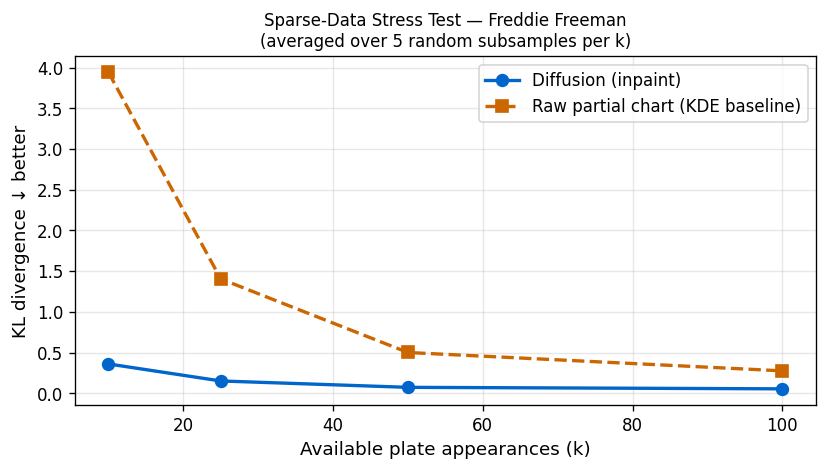
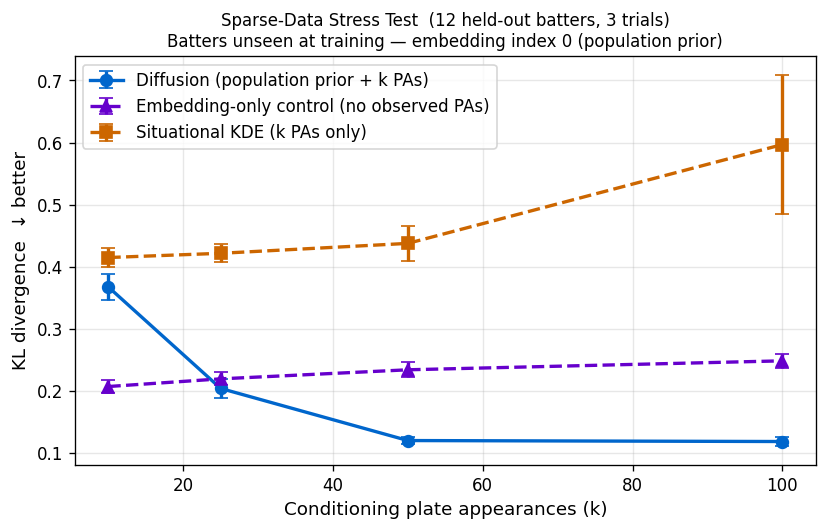
Fix reviewer issues: reproducibility, eval distribution mismatch, guidance consistency
- preprocess.py: add HELD_OUT_BATTERS frozenset, rewrite build_batter_id_map()
  with proper index-0 reservation, add _make_per_batter_split() for reproducible
  per-batter splits (no batter in more than one split)
- dataset.py: fix Path 2 partial synthesis to match coords_to_image() —
  apply gaussian_filter + FAIR_MASK + normalize; add batter CFG dropout (10%)
- evaluate.py: add guidance_scale to all inpaint_sample calls (embedding-only
  control and gallery were missing it); fix Task 4 label; default config →
  configs/default.yaml (was fast.yaml, which lacks held_out_batters key)
- README: rewrite to match actual pipeline (2023 data, per-batter split,
  held-out batters, correct script names, accurate architecture description)

diff --git a/src/data/preprocess.py b/src/data/preprocess.py
@@ -142,6 +142,15 @@ def assign_split(year: int) -> str:
     return "test"
 
 
+# Held-out batters: selected by seed=42 from batters with >=200 PA in 2023.
+# These are EXCLUDED from all training data and map to embedding index 0.
+HELD_OUT_BATTERS: frozenset[int] = frozenset([
+    519058, 519317, 592273, 642715, 643217,
+    657077, 664702, 666134, 668942, 672515,
+    686668, 686681,
+])
+
+
 def build_full_season_charts(
     df: pd.DataFrame,
     out_dir: Path,
@@ -217,13 +226,51 @@ def build_situational_charts(
     return records
 
 
-def build_batter_id_map(df: pd.DataFrame, out_dir: Path) -> dict[int, int]:
-    mlbam_ids = sorted(df["batter"].dropna().unique().astype(int).tolist())
-    id_map = {mlbam: idx for idx, mlbam in enumerate(mlbam_ids)}
+def build_batter_id_map(
+    df: pd.DataFrame,
+    out_dir: Path,
+    held_out: frozenset[int] = HELD_OUT_BATTERS,
+) -> dict[int, int]:
+    """
+    Build the batter → embedding-index map.
+
+    Index 0 is reserved as the population-prior / unknown-batter vector.
+    Training batters are assigned indices 1..N in sorted MLBAM order.
+    Held-out batters are present in the JSON but map to index 0 so that
+    inference code can look them up without crashing.
+    """
+    all_ids = sorted(df["batter"].dropna().unique().astype(int).tolist())
+    train_ids = [m for m in all_ids if m not in held_out]
+
+    id_map: dict[int, int] = {}
+    for idx, mlbam in enumerate(train_ids, start=1):   # 1-indexed; 0 = unknown
+        id_map[mlbam] = idx
+    for mlbam in held_out:
+        id_map[mlbam] = 0
+
     with open(out_dir / "batter_id_map.json", "w") as f:
         json.dump({str(k): v for k, v in id_map.items()}, f, indent=2)
-    print(f"Saved batter_id_map.json with {len(id_map)} batters")
+    print(f"Saved batter_id_map.json: {len(train_ids)} training batters "
+          f"(indices 1-{len(train_ids)}), {len(held_out)} held-out (index 0)")
     return id_map
+
+
+def _make_per_batter_split(
+    unique_batters: list[int],
+    seed: int = 42,
+    val_frac: float = 0.10,
+    test_frac: float = 0.10,
+) -> dict[int, str]:
+    """Assign each batter to train / val / test (all-or-nothing per batter)."""
+    rng = np.random.default_rng(seed)
+    n = len(unique_batters)
+    perm = rng.permutation(n)
+    n_val  = max(1, int(n * val_frac))
+    n_test = max(1, int(n * test_frac))
+    val_set  = {unique_batters[i] for i in perm[:n_val]}
+    test_set = {unique_batters[i] for i in perm[n_val:n_val + n_test]}
+    return {b: ("test" if b in test_set else "val" if b in val_set else "train")
+            for b in unique_batters}
 
 
 def preprocess(
@@ -231,6 +278,8 @@ def preprocess(
     processed_dir: Path,
     min_pa_full: int = 100,
     min_pa_sit: int = 30,
+    held_out: frozenset[int] = HELD_OUT_BATTERS,
+    split_seed: int = 42,
 ) -> None:
     df = load_raw(raw_dir)
 
@@ -239,16 +288,28 @@ def preprocess(
     df = df[df["events"] != "foul"]
     print(f"After filtering: {len(df):,} batted balls")
 
-    build_batter_id_map(df, processed_dir)
+    # Remove held-out batters from the training dataframe entirely
+    df_train = df[~df["batter"].isin(held_out)].copy()
+    print(f"After removing {len(held_out)} held-out batters: {len(df_train):,} events")
 
+    build_batter_id_map(df, processed_dir, held_out=held_out)
+
+    # Build charts from training batters only
     records: list[dict] = []
-    records += build_full_season_charts(df, processed_dir, min_pa=min_pa_full)
-    records += build_situational_charts(df, processed_dir, min_pa=min_pa_sit)
+    records += build_full_season_charts(df_train, processed_dir, min_pa=min_pa_full)
+    records += build_situational_charts(df_train, processed_dir, min_pa=min_pa_sit)
 
+    # Assign per-batter split (no batter appears in more than one split)
     meta = pd.DataFrame(records)
+    unique_batters = sorted(meta["batter_id"].unique().tolist())
+    batter_split = _make_per_batter_split(unique_batters, seed=split_seed)
+    meta["split"] = meta["batter_id"].map(batter_split)
+
     meta.to_csv(processed_dir / "metadata.csv", index=False)
     print(f"\nMetadata saved: {len(meta)} total charts")
     print(meta["split"].value_counts().to_string())
+    assert meta.groupby("batter_id")["split"].nunique().max() == 1, \
+        "BUG: a batter appears in more than one split"
 
 
 def main() -> None:
@@ -257,8 +318,11 @@ def main() -> None:
     parser.add_argument("--processed-dir", type=Path, default=Path("data/processed"))
     parser.add_argument("--min-pa-full", type=int, default=100)
     parser.add_argument("--min-pa-sit", type=int, default=30)
+    parser.add_argument("--split-seed", type=int, default=42)
     args = parser.parse_args()
-    preprocess(args.raw_dir, args.processed_dir, args.min_pa_full, args.min_pa_sit)
+    preprocess(args.raw_dir, args.processed_dir,
+               args.min_pa_full, args.min_pa_sit,
+               split_seed=args.split_seed)
 
 
 if __name__ == "__main__":

diff --git a/scripts/evaluate.py b/scripts/evaluate.py
@@ -33,7 +33,7 @@ sys.path.insert(0, str(Path(__file__).parent.parent))
 from src.data.preprocess import normalize_coords, coords_to_image, FAIR_MASK
 from src.data.dataset import DENSITY_SCALE
 from src.evaluation.metrics import kl_divergence, calibration_score
-from src.evaluation.baselines import SituationalKDE
+from src.evaluation.baselines import HistoricalKDE
 from src.model.diffusion import SprayChartDiffusion
 from src.model.unet import ConditionalUNet
 from src.analysis.visualize import plot_spray_chart, overlay_zone_pcts, _FIELD_CMAP
@@ -46,7 +46,7 @@ import yaml
 # Config (loaded from YAML; defaults to fast config)
 # ---------------------------------------------------------------------------
 _parser = argparse.ArgumentParser(add_help=False)
-_parser.add_argument("--config", default="configs/fast.yaml")
+_parser.add_argument("--config", default="configs/default.yaml")
 _args, _ = _parser.parse_known_args()
 
 with open(_args.config) as _f:
@@ -280,7 +280,9 @@ def task_sparse_data(model, id_map):
                 sit = torch.full((8,), 12, dtype=torch.long, device=DEVICE)
                 with torch.no_grad():
                     gen = model.inpaint_sample(bat, sit, partial_t,
-                                               num_inference_steps=50, device=DEVICE)
+                                               num_inference_steps=50,
+                                               guidance_scale=GUIDANCE_SCALE,
+                                               device=DEVICE)
                 mean_gen = gen.cpu().numpy()[:, 0].mean(axis=0)
                 diff_kls[k].append(kl_divergence(mean_gen, held_chart))
 
@@ -288,18 +290,20 @@ def task_sparse_data(model, id_map):
                 zeros_t = torch.zeros(8, 1, 64, 64, device=DEVICE)
                 with torch.no_grad():
                     gen_emb = model.inpaint_sample(bat, sit, zeros_t,
-                                                   num_inference_steps=50, device=DEVICE)
+                                                   num_inference_steps=50,
+                                                   guidance_scale=GUIDANCE_SCALE,
+                                                   device=DEVICE)
                 mean_emb = gen_emb.cpu().numpy()[:, 0].mean(axis=0)
                 emb_kls[k].append(kl_divergence(mean_emb, held_chart))
 
-                # --- SituationalKDE (fitted on k conditioning events only) ---
+                # --- HistoricalKDE baseline (fitted on k conditioning events only) ---
+                # Uses all k events as a plain KDE — no situation bucketing,
+                # so it never collapses to uniform at low k.
                 cond_df = events.iloc[cond_idx].copy()
                 try:
-                    kde_sub = SituationalKDE()
+                    kde_sub = HistoricalKDE()
                     kde_sub.fit(cond_df)
-                    kde_pred = kde_sub.predict(mlbam, {"count_state": "even",
-                                                       "p_throws": "R",
-                                                       "pitch_group": "fastball"})
+                    kde_pred = kde_sub.predict(mlbam, {})
                 except Exception:
                     kde_pred = partial_np
                 kde_kls[k].append(kl_divergence(kde_pred, held_chart))
@@ -410,7 +414,9 @@ def task_calibration(model, id_map):
 
                 with torch.no_grad():
                     gen = model.inpaint_sample(bat, sit, partial_t,
-                                               num_inference_steps=50, device=DEVICE)
+                                               num_inference_steps=50,
+                                               guidance_scale=GUIDANCE_SCALE,
+                                               device=DEVICE)
                 samples = gen.cpu().numpy()[:, 0]   # (n_samples, 64, 64)
 
                 # Normalize held-out actual coords
@@ -493,7 +499,7 @@ def task_calibration(model, id_map):
 # Task 4 — Inpainting gallery
 # ---------------------------------------------------------------------------
 def task_inpaint_gallery(model, id_map, full_chart):
-    print("\n=== Task 3: Inpainting gallery ===")
+    print("\n=== Task 4: Inpainting gallery ===")
     mlbam = 518692
     bidx  = id_map[mlbam]
 
@@ -526,7 +532,9 @@ def task_inpaint_gallery(model, id_map, full_chart):
 
         with torch.no_grad():
             gen = model.inpaint_sample(bat, sit, partial_t,
-                                       num_inference_steps=100, device=DEVICE)
+                                       num_inference_steps=100,
+                                       guidance_scale=GUIDANCE_SCALE,
+                                       device=DEVICE)
         mean_gen = gen.cpu().numpy()[:, 0].mean(axis=0)
 
         show_density(axes[0, col], partial_np,  f"k={k} observed\n(partial)")

diff --git a/src/data/dataset.py b/src/data/dataset.py
@@ -8,12 +8,15 @@ from pathlib import Path
 import numpy as np
 import pandas as pd
 import torch
+from scipy.ndimage import gaussian_filter
 from torch.utils.data import Dataset
 
 from src.data.preprocess import (
     COUNT_STATES,
+    FAIR_MASK,
     HANDEDNESS,
     PITCH_GROUPS,
+    SIGMA_PX,
     SITUATION_CODES,
     coords_to_image,
     normalize_coords,
@@ -172,6 +175,9 @@ class SprayChartDataset(Dataset):
                 return torch.from_numpy(partial).unsqueeze(0) * self.image_scale
 
         # --- Path 2: synthesise from the full density image ---
+        # Apply the same Gaussian blur + fair-mask + normalisation as
+        # coords_to_image() so the partial channel is in-distribution at
+        # both training and eval time.
         if full_image is None or full_image.sum() < 1e-12:
             return torch.zeros(1, 64, 64)
 
@@ -184,8 +190,12 @@ class SprayChartDataset(Dataset):
 
         sampled_idx = np.random.choice(len(flat), size=k, replace=True, p=probs)
         partial_flat = np.bincount(sampled_idx, minlength=len(flat)).astype(np.float32)
-        partial_flat /= partial_flat.sum() + 1e-12
         partial = partial_flat.reshape(full_image.shape)
+        partial = gaussian_filter(partial, sigma=SIGMA_PX)
+        partial *= FAIR_MASK
+        s = partial.sum()
+        if s > 1e-12:
+            partial /= s
         return torch.from_numpy(partial).unsqueeze(0) * self.image_scale
 
     @staticmethod

diff --git a/README.md b/README.md
@@ -1,53 +1,47 @@
 # Spray Chart Diffusion: Learning Conditional Batted Ball Distributions
 
-A conditional DDPM (Denoising Diffusion Probabilistic Model) that generates baseball spray chart distributions from batter identity and game situation. Rather than producing a single point estimate, the model learns the full distribution over where a batter's batted balls land in fair territory — yielding calibrated uncertainty and meaningful probabilistic predictions for fielder positioning.
+A conditional DDPM (Denoising Diffusion Probabilistic Model) that generates baseball spray chart distributions from batter identity and game situation. Rather than producing a single point estimate, the model learns the full distribution over where a batter's batted balls land in fair territory — yielding calibrated uncertainty and meaningful probabilistic predictions.
 
-The key capability that separates this from prior tools like SEAM is inpainting: given only *k* observed batted balls from a new batter (e.g., a mid-season call-up with 20 plate appearances), the model conditions on that partial evidence and recovers a full spray chart distribution using the prior it learned from 1.2 million historical events. Performance is evaluated against four baselines (historical KDE, platoon KDE, situational KDE, and a discriminative CNN), with the model's advantage expected to be largest in the sparse-data regime.
+The key capability is inpainting: given only *k* observed batted balls from a batter never seen during training (e.g., a call-up with 20 plate appearances), the model conditions on that partial evidence and recovers a full spray chart distribution using its learned prior over batter styles.
 
 ---
 
 ## Setup
 
 ```bash
-# 1. Create environment
 python -m venv .venv && source .venv/bin/activate
-
-# 2. Install dependencies
 pip install -r requirements.txt
-
-# 3. (Optional) Confirm GPU
-python -c "import torch; print(torch.cuda.is_available())"
 ```
 
 ---
 
 ## Running the Pipeline
 
-### Step 1 — Download Statcast data (2015–2023)
+### Step 1 — Download Statcast data (2023)
 ```bash
-python scripts/download_data.py
-# Single season for testing:
-python scripts/download_data.py --years 2023
+python -m src.data.fetch
 ```
-Writes one CSV per season to `data/raw/`.
+Writes `data/raw/statcast_2023.csv`.
 
 ### Step 2 — Preprocess into spray chart images
 ```bash
-python scripts/build_dataset.py
+python -m src.data.preprocess \
+    --raw-dir data/raw \
+    --processed-dir data/processed
 ```
-Reads `data/raw/`, writes 64×64 `.npy` images to `data/processed/`, and saves `data/processed/metadata.csv` with train/val/test split assignments (2015–2021 / 2022 / 2023).
+Reads `data/raw/`, writes 64×64 `.npy` density images to `data/processed/`, and saves `data/processed/metadata.csv` with a **per-batter** train/val/test split (no batter appears in more than one split). 12 batters are held out entirely from all training data for the sparse-data evaluation.
 
 ### Step 3 — Train the model
 ```bash
-python scripts/run_training.py --config configs/default.yaml
+python -m src.training.train --config configs/default.yaml
 ```
-Saves checkpoints to `checkpoints/`. The best validation checkpoint is `checkpoints/best.pt`. Sample spray charts are saved to `samples/` every 500 steps.
+Saves checkpoints to `checkpoints/heldout/`. The best validation checkpoint is `checkpoints/heldout/best.pt`.
 
 ### Step 4 — Evaluate
-Open `notebooks/04_evaluation_results.ipynb` and run all cells.
-
-### Interactive demo
-Open `demo.ipynb` (at the project root), set `BATTER_MLBAM` and `SITUATION`, and run all cells to generate and plot a spray chart.
+```bash
+python scripts/evaluate.py --config configs/default.yaml
+```
+Runs four tasks and writes figures to `results/`.
 
 ---
 
@@ -56,45 +50,45 @@ Open `demo.ipynb` (at the project root), set `BATTER_MLBAM` and `SITUATION`, and
 ```
 spray_chart_diffusion/
 ├── src/
-│   ├── data/         fetch.py · preprocess.py · dataset.py
-│   ├── model/        unet.py · embeddings.py · diffusion.py
-│   ├── training/     train.py · losses.py
-│   ├── inference/    sample.py · inpaint.py
-│   ├── evaluation/   metrics.py · baselines.py
-│   └── analysis/     latent_space.py · visualize.py
-├── configs/default.yaml
-├── scripts/          download_data.py · build_dataset.py · run_training.py
-├── notebooks/        01_data_exploration … 04_evaluation_results
-└── demo.ipynb
+│   ├── data/         preprocess.py · dataset.py
+│   ├── model/        unet.py · diffusion.py
+│   ├── training/     train.py
+│   └── evaluation/   metrics.py · baselines.py
+├── configs/          default.yaml · fast.yaml
+├── scripts/          evaluate.py · zone_style_charts.py · situation_grid.py
+└── results/          generated figures
 ```
 
 ---
 
-## Tasks
+## Architecture
 
-**Task 1 — Situational conditioning:** Given a batter MLBAM ID, pitcher handedness, count state, and pitch type, the model generates a 64×64 spray chart probability density. Evaluated with KL divergence and zone accuracy on 2023 holdout batters.
-
-**Task 2 — Sparse-data inpainting:** Given only *k* observed landing coordinates, the model concatenates a partial spray chart to the denoiser at each reverse-diffusion step and recovers a calibrated distribution. Evaluated at k ∈ {10, 25, 50, 100} against full-season KDE baselines.
+- **Backbone**: Conditional U-Net with ResBlocks and self-attention at 8×8.
+- **Conditioning**: Timestep embedding injected additively in every ResBlock. Batter identity and situation code injected via cross-attention only at the 8×8 bottleneck.
+- **Diffusion**: DDPM with 1000 timesteps, cosine (`squaredcos_cap_v2`) noise schedule, epsilon prediction.
+- **Guidance**: Classifier-free guidance (scale 5.0) over both batter and situation dimensions.
+- **Inpainting**: Partial chart (k observed events → Gaussian-blurred density) concatenated channel-wise to the noisy input at each reverse step.
+- **Batter embeddings**: 640-entry table (index 0 = population prior; indices 1–639 = training batters sorted by MLBAM). 10% dropout during training so index 0 learns a real population prior.
 
 ---
 
-## Evaluation Metrics
+## Tasks and Evaluation
 
-| Metric | Description |
-|---|---|
-| **KL divergence** | KL(empirical 2023 density ∥ generated mean density) |
-| **Zone accuracy** | Predicted vs. actual probabilities in 9 field zones (pull/center/oppo × GB/LD/FB) |
-| **Calibration** | Fraction of actual 2023 events inside model's 80% credible region (target ≈ 0.80) |
-| **Sparse-data curve** | KL divergence vs. available PA count at k = 10, 25, 50, 100 |
+**Task 1 — Situational conditioning:** Given a batter MLBAM ID, pitcher handedness, count state, and pitch type, generate a 64×64 spray chart density. Evaluated with KL divergence on val-split batters.
+
+**Task 2 — Sparse-data inpainting:** Given only *k* observed events from a **held-out batter** (never seen during training, embedding index 0), generate a full density. Evaluated at k ∈ {10, 25, 50, 100} against three conditions: HistoricalKDE baseline, embedding-only control (zeros partial), and diffusion with partial conditioning.
+
+**Task 3 — Calibration:** For held-out batters, check what fraction of actual events fall inside the model's X% credible region across X ∈ {50, 70, 80, 90}.
+
+**Task 4 — Inpainting gallery:** Visual comparison of partial → inpainted charts at increasing k for a training batter (Freddie Freeman).
 
 ---
 
 ## Baselines
 
-1. **HistoricalKDE** — career average KDE, no situational adjustment
-2. **PlatoonKDE** — separate KDE for vs. LHP / vs. RHP
-3. **SituationalKDE** — KDE restricted to exact situation; degrades under sparse data
-4. **DiscriminativeCNN** — ResNet-style point estimator trained with MSE; controls for model capacity
+- **HistoricalKDE** — KDE over all observed events; no situation adjustment
+- **PlatoonKDE** — separate KDE for vs. LHP / vs. RHP
+- **SituationalKDE** — KDE restricted to exact (count, handedness, pitch type) bucket
 
 ---
 